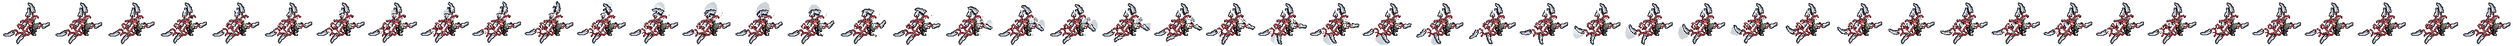
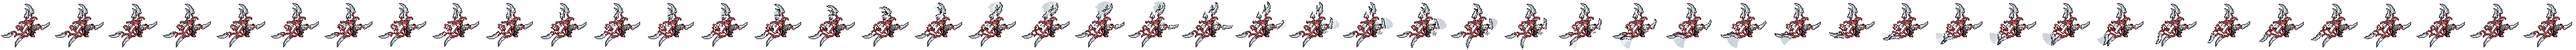
Parasytic ???: neuer Sprite des Users, Klingen schwingen mit der gebogenen Seite voran
Claude-Session: https://claude.ai/code/session_01S1PZe4tVcCYjm7PV64dCdL

Changed region(s): [[0.0, 0.0278, 1.0, 0.9722]]

diff --git a/scripts/hero-animations/parasyte.py b/scripts/hero-animations/parasyte.py
@@ -281,9 +281,25 @@ SLASH_T = 14                                                # Länge eines Hiebs
 SLASH_AMP = 1.15                                            # Schlagwinkel (rad)
 _cx, _cy = SW * 0.5, SH * 0.5
 _order = sorted(range(len(BLADE_PARTS)), key=lambda k: math.atan2(BLADE_PARTS[k]['piv'][1] - _cy, BLADE_PARTS[k]['piv'][0] - _cx))
-for rank, k in enumerate(_order):                           # reihum versetzt; Drehsinn im Wechsel
+def _lead_sign(bp):
+    """+1/-1: Drehsinn, bei dem die GEBOGENE (konvexe) Seite der Klinge vorangeht.
+    Sehne Basis -> Spitze; der Schwerpunkt der Klinge liegt zur konvexen Seite hin neben der Sehne."""
+    ys, xs = np.nonzero(bp['mask'])
+    px, py = bp['piv']
+    r = np.hypot(xs - px, ys - py)
+    t = int(r.argmax())
+    dx, dy = xs[t] - px, ys[t] - py
+    n = math.hypot(dx, dy) or 1.0
+    dx, dy = dx / n, dy / n
+    cx, cy = xs.mean() - px, ys.mean() - py
+    along = cx * dx + cy * dy
+    sx, sy = cx - along * dx, cy - along * dy                    # Versatz des Schwerpunkts quer zur Sehne = konvexe Seite
+    return 1 if (sx * -dy + sy * dx) > 0 else -1                  # Bewegungsrichtung bei positivem Winkel (Uhrzeigersinn): (-dy, dx)
+
+
+for rank, k in enumerate(_order):                           # reihum versetzt; konvexe Seite immer voran
     BLADE_PARTS[k]['start'] = 2 + rank * ((N - 4 - SLASH_T) // max(1, len(BLADE_PARTS) - 1))
-    BLADE_PARTS[k]['sign'] = 1 if rank % 2 == 0 else -1
+    BLADE_PARTS[k]['sign'] = _lead_sign(BLADE_PARTS[k])
 
 
 def _ease(x):
@@ -380,7 +396,7 @@ def frame(i):
     return out
 
 
-FACE_X, FOOT_Y = 42.5, 56.0       # Gesichtsmitte / Standlinie im Sprite
+FACE_X, FOOT_Y = 43.5, 54.0       # Gesichtsmitte / Standlinie im Sprite
 
 
 def crop_frames(frames):
